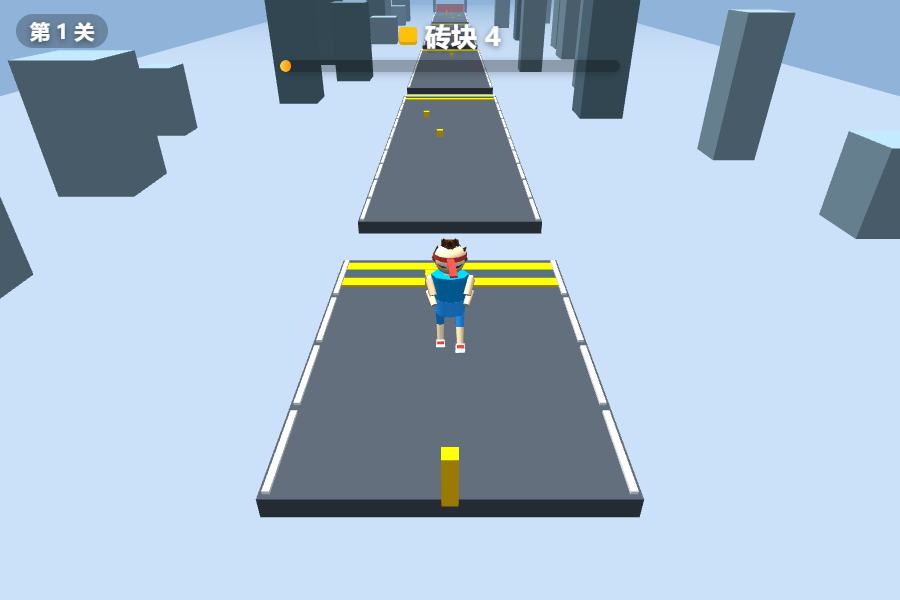
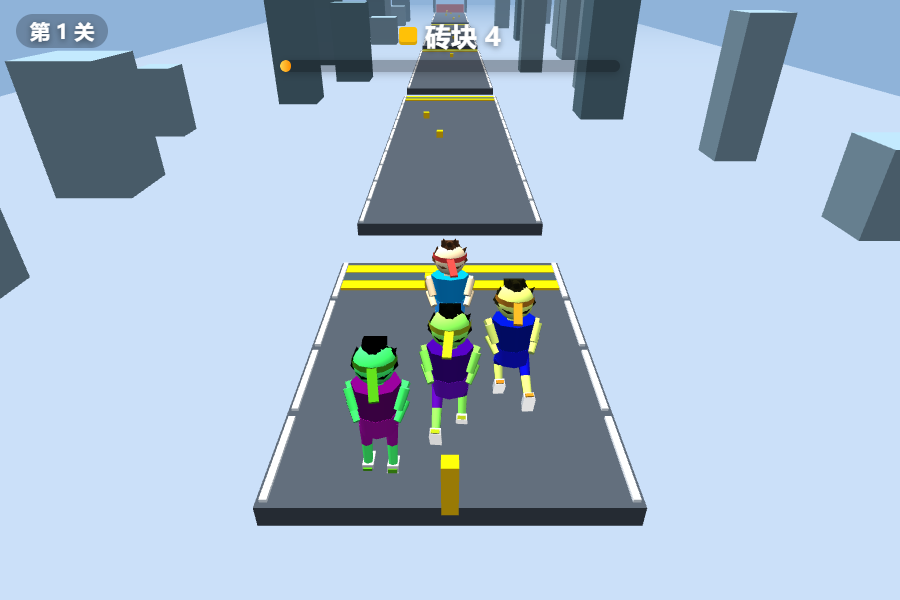
AI 对手竞速上线(原版标志性机制): 3个AI对手同时起跑/各自铺板经济/80%沿主路20%切弯/速度差判定撞飞并抢板/板尽坠落; 修关节命名致克隆体动画崩溃; 四门全绿(verify 13项含opponents状态)

diff --git a/web-preview/index.html b/web-preview/index.html
@@ -498,6 +498,7 @@ function buildChar() {
   const M = CHAR_MATS;
   const root = player;
   const torsoGroup = new THREE.Group();
+  torsoGroup.name = 'Torso'; // 克隆体(AI 对手)靠名字找回关节，必须命名
   torsoGroup.position.set(0, 0.72, 0);
   root.add(torsoGroup);
 
@@ -511,6 +512,7 @@ function buildChar() {
 
   // 头 + 眼睛 + 头发 + 头带 + 飘带
   const headGroup = new THREE.Group();
+  headGroup.name = 'Head';
   headGroup.position.set(0, 1.15, 0);
   torsoGroup.add(headGroup);
   const head = new THREE.Mesh(new THREE.SphereGeometry(0.32, 12, 10), M.skin);
@@ -523,6 +525,7 @@ function buildChar() {
   const ribbonGeo = new THREE.BoxGeometry(0.14, 0.04, 0.55);
   ribbonGeo.translate(0, 0, -0.27);
   const headbandRibbon = new THREE.Mesh(ribbonGeo, M.accent);
+  headbandRibbon.name = 'Ribbon'; // 克隆体靠名字找回关节
   headbandRibbon.position.set(0, 0.12, -0.32);
   headGroup.add(headbandRibbon);
   // 表情：腮红 + 微笑（AI Studio v2 增强）
@@ -557,12 +560,14 @@ function buildChar() {
   const createLeg = (isLeft) => {
     const side = isLeft ? -1 : 1;
     const hip = new THREE.Group();
+    hip.name = isLeft ? 'HipL' : 'HipR'; // 克隆体靠名字找回关节
     hip.position.set(side * 0.2, 0.08, 0);
     torsoGroup.add(hip);
     const thighGeo = new THREE.CylinderGeometry(0.11, 0.09, 0.38, 6);
     thighGeo.translate(0, -0.19, 0);
     hip.add(new THREE.Mesh(thighGeo, M.clothBottom));
     const knee = new THREE.Group();
+    knee.name = isLeft ? 'KneeL' : 'KneeR';
     knee.position.set(0, -0.38, 0);
     hip.add(knee);
     const calfGeo = new THREE.CylinderGeometry(0.09, 0.075, 0.38, 6);
@@ -570,6 +575,7 @@ function buildChar() {
     knee.add(new THREE.Mesh(calfGeo, M.skin));
     // 踝关节：脚掌俯仰（脚跟触地 +0.28 / 脚尖蹬地 -0.45）
     const foot = new THREE.Group();
+    foot.name = isLeft ? 'FootL' : 'FootR';
     foot.position.set(0, -0.36, 0);
     knee.add(foot);
     const shoeGeo = new THREE.BoxGeometry(0.18, 0.14, 0.34);
@@ -591,12 +597,14 @@ function buildChar() {
   const createArm = (isLeft) => {
     const side = isLeft ? -1 : 1;
     const shoulder = new THREE.Group();
+    shoulder.name = isLeft ? 'ShoulderL' : 'ShoulderR'; // 克隆体靠名字找回关节
     shoulder.position.set(side * 0.42, 0.72, 0);
     torsoGroup.add(shoulder);
     const upperGeo = new THREE.CylinderGeometry(0.09, 0.08, 0.34, 6);
     upperGeo.translate(0, -0.17, 0);
     shoulder.add(new THREE.Mesh(upperGeo, M.skin));
     const elbow = new THREE.Group();
+    elbow.name = isLeft ? 'ElbowL' : 'ElbowR';
     elbow.position.set(0, -0.32, 0);
     shoulder.add(elbow);
     const foreGeo = new THREE.CylinderGeometry(0.08, 0.07, 0.34, 6);
@@ -613,6 +621,7 @@ function buildChar() {
 
   // 砖垛挂点：胸前手抱位（AI Studio 母本方案；相机已调高成俯视追尾使其可见）
   const plankMount = new THREE.Group();
+  plankMount.name = 'PlankMount'; // 克隆体靠名字找回关节
   plankMount.position.set(0, 0.58, 0.62);
   torsoGroup.add(plankMount);
 
@@ -768,6 +777,8 @@ function buildLevel(cur) {
   playerX = 0; targetX = 0; playerY = 0; fallVel = 0;
   heldLeft = false; heldRight = false; dragging = false;
   fell = false; bridgeT = 0;
+  offRoad = false; plankAcc = 0; leapGrace = 0;
+  buildOpponents(); // AI 对手竞速（原版机制）
   player.position.set(bendX(0), 0, 0);
   player.rotation.set(0, 0, 0);
   for (const m of stackMeshes) m.visible = false;
@@ -1090,25 +1101,129 @@ function updateShortcut(x, z, adv) {
   // 每 plankStride 米在脚下留一块板（未满池时新增，满后循环复用最老的）
   if (plankAcc >= cfg.plankStride) {
     plankAcc = 0;
-    const h = headingAt(z);
-    const px = bendX(z) + x * Math.cos(h) + (Math.random() - 0.5) * 0.15;
-    let plank;
-    if (planks.length < cfg.plankPoolMax) {
-      plank = new THREE.Mesh(BOX, plankMat);
-      plank.scale.set(1.5, 0.1, cfg.plankStride * 0.95);
-      scene.add(plank);
-      planks.push(plank);
-    } else {
-      plank = planks[plankCursor];
-      plankCursor = (plankCursor + 1) % cfg.plankPoolMax;
-    }
-    plank.position.set(px, 0.02, z - 0.2);
-    plank.rotation.y = h;
+    layPlank(z, x);
   }
+}
+
+// 在 (x,z) 留一块板（玩家与 AI 对手共用）
+function layPlank(z, x) {
+  const h = headingAt(z);
+  const px = bendX(z) + x * Math.cos(h) + (Math.random() - 0.5) * 0.15;
+  let plank;
+  if (planks.length < cfg.plankPoolMax) {
+    plank = new THREE.Mesh(BOX, plankMat);
+    plank.scale.set(1.5, 0.1, cfg.plankStride * 0.95);
+    scene.add(plank);
+    planks.push(plank);
+  } else {
+    plank = planks[plankCursor];
+    plankCursor = (plankCursor + 1) % cfg.plankPoolMax;
+  }
+  plank.position.set(px, 0.02, z - 0.2);
+  plank.rotation.y = h;
 }
 
 function checkGate(z) {
   if (z >= level.gateZ - 0.5) win(); // 原版规则：到达终点即过关（星级按用时/余砖）
+}
+
+// ===== AI 对手竞速（原版标志性机制复刻） =====
+// 规则：N 个 AI 对手同时起跑，各自带板铺捷径；速度比玩家快的撞飞玩家（抢板），
+// 玩家比对手快的撞飞对手并没收其携带板子；断崖/板尽同样会坠落。
+const OPPONENT_COUNT = 3;
+const opponents = [];
+
+function buildOpponents() {
+  for (const o of opponents) scene.remove(o.rig);
+  opponents.length = 0;
+  for (let i = 0; i < OPPONENT_COUNT; i++) {
+    const rig = char.root.clone(); // 深拷贝角色（共享几何体/克隆材质）
+    rig.traverse((n) => {
+      if (n.isMesh && n.material) {
+        n.material = n.material.clone();
+        n.material.color.offsetHSL(0.09 * (i + 1), 0, -0.12 - i * 0.05);
+      }
+    });
+    const x = (i - (OPPONENT_COUNT - 1) / 2) * 1.1;
+    const z = -1.2 - i * 1.0;
+    rig.position.set(bendX(z) + x, 0, z);
+    rig.rotation.y = headingAt(z);
+    scene.add(rig);
+    opponents.push({
+      rig, x, z,
+      speed: cfg.runSpeed * (0.9 + i * 0.05),
+      bricks: 24,
+      alive: true, finished: false,
+      targetX: x, changeT: Math.random() * 2, runCycle: i * 2.1,
+    });
+  }
+}
+
+function rigOf(root) {
+  const g = (n) => root.getObjectByName(n);
+  return {
+    root,
+    torso: g('Torso'), head: g('Head'), headbandRibbon: g('Ribbon'),
+    leftArm: { shoulder: g('ShoulderL'), elbow: g('ElbowL') },
+    rightArm: { shoulder: g('ShoulderR'), elbow: g('ElbowR') },
+    leftLeg: { hip: g('HipL'), knee: g('KneeL'), foot: g('FootL') },
+    rightLeg: { hip: g('HipR'), knee: g('KneeR'), foot: g('FootR') },
+    plankMount: g('PlankMount'),
+  };
+}
+
+function updateOpponents(dt) {
+  for (const o of opponents) {
+    if (!o.alive || o.finished) continue;
+    o.changeT -= dt;
+    if (o.changeT <= 0) {
+      o.changeT = 1.2 + Math.random() * 2;
+      // 80% 沿主路跑，20% 尝试切弯抄近路
+      o.targetX = Math.random() < 0.8
+        ? (Math.random() * 2 - 1) * cfg.trackHalfWidth * 0.7
+        : (Math.random() * 2 - 1) * (cfg.trackHalfWidth + 2.2);
+    }
+    o.x += (o.targetX - o.x) * Math.min(1, dt * 2.2);
+    const adv = o.speed * dt;
+    o.z += adv;
+
+    // 铺板经济：离开主路持续耗板，板尽坠落
+    if (!isOnMainRoad(o.x, o.z)) {
+      if (o.bricks > 0) {
+        o.bricks -= cfg.plankCostPerMeter * adv;
+        if (Math.random() < adv / cfg.plankStride) layPlank(o.z, o.x);
+      } else { knockOut(o, ' opponents 板尽坠落'); continue; }
+    }
+
+    // 与玩家碰撞：快者撞飞慢者并抢板
+    if (state === 'run' && Math.abs(o.z - player.position.z) < 0.85 && Math.abs(o.x - playerX) < 0.85) {
+      if (speed > o.speed * 1.02) {
+        knockOut(o, ' 被你撞飞');
+        const loot = Math.min(Math.floor(o.bricks), 6);
+        if (loot > 0) { bricks += loot; setBricksUI(Math.floor(bricks)); floatText(`抢板 +${loot}`, '#ff8a80'); }
+      } else if (o.speed > speed * 1.02) {
+        knockOut(o, ' 对手撞飞了你'); // 对手继续跑
+        enterFall();
+        return;
+      }
+    }
+
+    if (o.z >= level.gateZ - 0.5) { o.finished = true; continue; }
+
+    o.rig.position.set(bendX(o.z) + o.x * Math.cos(headingAt(o.z)), 0, o.z);
+    o.rig.rotation.y = headingAt(o.z);
+    o.runCycle += dt * (8 + o.speed * 0.7);
+    animateChar(rigOf(o.rig), o.runCycle, o.targetX - o.x, Math.ceil(o.bricks), 'running', dt);
+  }
+}
+
+function knockOut(o, why) {
+  o.alive = false;
+  console.log('[ShortcutRun] 对手退场:' + why);
+  sfx.lose();
+  shake(0.12, 0.2);
+  const p = o.rig.position;
+  tweenTo(o.rig.position, 'y', p.y - 6, 0.8);
 }
 
 // ============ 主循环 ============
@@ -1165,6 +1280,7 @@ function loop() {
       checkGates(prevZ, z);
       checkGate(z);
     }
+    updateOpponents(dt);
     // 砖堆挂 plankMount（头顶），只需切可见性
     for (let i = 0; i < stackMeshes.length; i++) {
       stackMeshes[i].visible = i < Math.min(bricks, stackMeshes.length);
@@ -1234,6 +1350,8 @@ window.__game = {
     pickupList: pickups.map((p) => ({ x: p.def.x, z: p.def.z, taken: p.taken, kind: p.def.kind || 'brick' })),
     gapList: level.gaps.map((g) => ({ zStart: g.zStart, zEnd: g.zEnd, cost: g.cost, bridged: !!g.bridged })),
     offRoad, planksLaid: planks.length,
+    opponents: opponents.filter((o) => o.alive).length,
+    opponentsDone: opponents.filter((o) => o.finished || !o.alive).length,
     gateList: (level.gates || []).map((g) => ({ z: g.z, type: g.type, v: g.v, used: !!g.used })),
   }),
   setBricks: (n) => { bricks = n; setBricksUI(n); },
